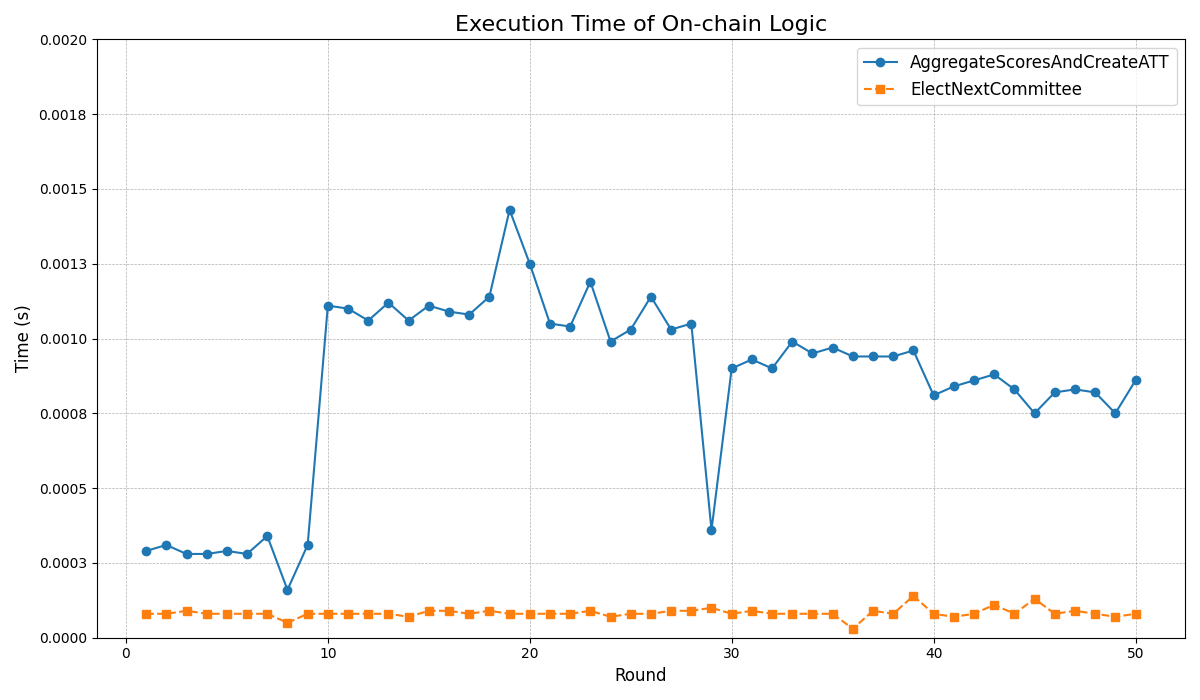
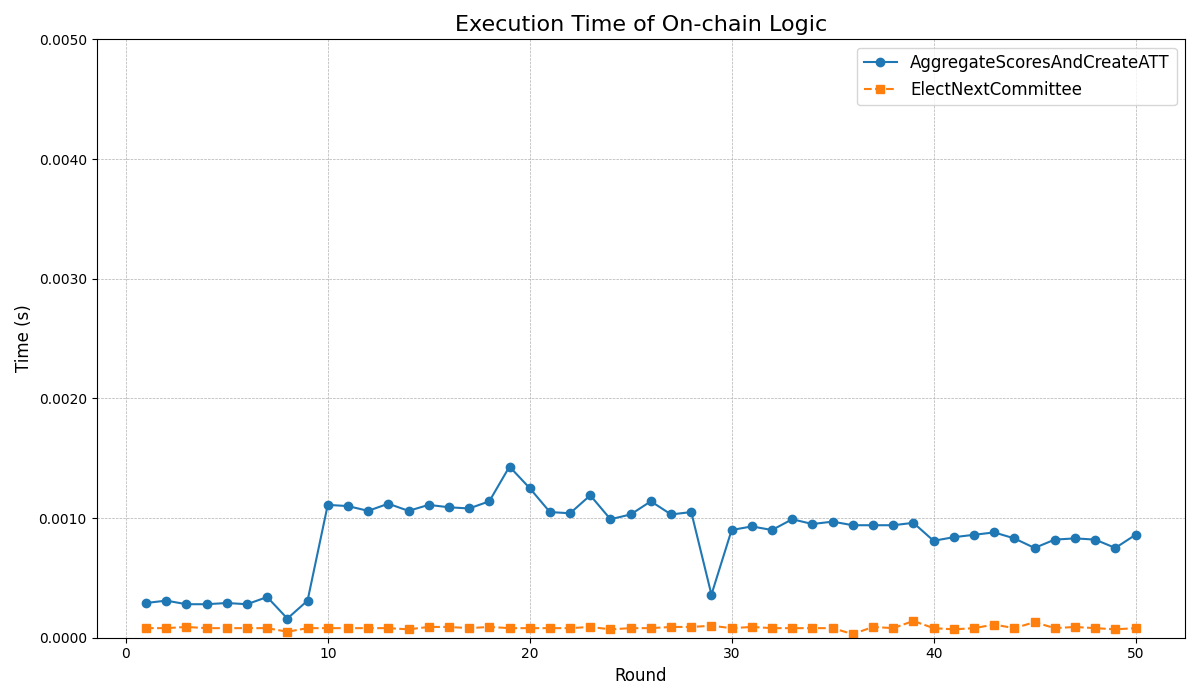
test

diff --git a/script/plot_cnode.py b/script/plot_cnode.py
@@ -1,0 +1,80 @@
+import pandas as pd
+import matplotlib.pyplot as plt
+
+### --- 그래프 설정 --- ###
+# 분석할 CSV 파일 이름
+CSV_FILE_PATH = "simulation_performance.csv"
+# 그래프로 그릴 데이터 컬럼 이름
+COLUMN_TO_PLOT = "avg_cnode_time"
+# Y축 최소값 설정
+Y_AXIS_MIN = 0.1
+# Y축 최대값 설정
+Y_AXIS_MAX = 3.0
+# 저장할 그래프 이미지 파일 이름
+OUTPUT_FILENAME = "avg_cnode_time_graph.png"
+### -------------------- ###
+
+
+def plot_custom_graph(csv_path, column, y_min, y_max, output_filename):
+    """
+    CSV 파일에서 지정된 컬럼 데이터를 읽어 Y축 범위를 설정하여 그래프를 생성합니다.
+    """
+    # 1. CSV 파일 읽기
+    try:
+        df = pd.read_csv(csv_path)
+    except FileNotFoundError:
+        print(f"오류: '{csv_path}' 파일을 찾을 수 없습니다. 스크립트와 같은 폴더에 파일이 있는지 확인하세요.")
+        return
+    except Exception as e:
+        print(f"파일을 읽는 중 오류가 발생했습니다: {e}")
+        return
+
+    # 2. 필요한 컬럼이 있는지 확인
+    if 'round_id' not in df.columns or column not in df.columns:
+        print(f"오류: CSV 파일에 'round_id' 또는 '{column}' 컬럼이 존재하지 않습니다.")
+        return
+
+    # 3. 그래프 생성
+    plt.figure(figsize=(12, 7))
+    
+    plt.plot(df['round_id'], df[column], 
+             marker='o', 
+             linestyle='-', 
+             color='teal', 
+             label=column)
+
+    # 4. 그래프 스타일 및 정보 설정
+    plt.title(f'Performance of C-node submit Score per Round', fontsize=16)
+    plt.xlabel('Round', fontsize=12)
+    plt.ylabel('Time (s)', fontsize=12)
+    plt.grid(True, which='both', linestyle='--', linewidth=0.5)
+    # 평균값 라인
+    plt.axhline(y=df[column].mean(), color='r', linestyle='--', label='Average')
+    # 평균값 표시
+    plt.text(1.8, df[column].mean() + 0.05, f'Avg: {df[column].mean():.2f}', color='r', fontsize=10)
+    
+    # 5. Y축 범위 설정 (사용자 지정)
+    plt.ylim(y_min, y_max)
+    
+    plt.legend()
+    plt.tight_layout()
+
+    # 6. 그래프 저장 및 출력
+    try:
+        plt.savefig(output_filename)
+        print(f"그래프 '{output_filename}'가 성공적으로 저장되었습니다.")
+        plt.show()
+    except Exception as e:
+        print(f"그래프를 저장하는 중 오류가 발생했습니다: {e}")
+
+
+# --- 메인 실행 블록 ---
+if __name__ == "__main__":
+    plot_custom_graph(
+        csv_path=CSV_FILE_PATH,
+        column=COLUMN_TO_PLOT,
+        y_min=Y_AXIS_MIN,
+        y_max=Y_AXIS_MAX,
+        output_filename=OUTPUT_FILENAME
+    )
+

diff --git a/script/plot_onchain.py b/script/plot_onchain.py
@@ -5,7 +5,7 @@ import matplotlib.ticker as mticker
 
 # 그래프 1 Y축 범위 설정 (초 단위)
 # 예: (0.0, 0.001) => 0 ~ 0.001초 범위, None이면 자동 범위
-GRAPH1_Y_RANGE = (0.0, 0.002)  # 0~0.01초로 변경
+GRAPH1_Y_RANGE = (0.0, 0.005)  # 0~0.01초로 변경
 
 def parse_log_file(log_path):
     import re
@@ -115,18 +115,25 @@ def plot_submission_time(df):
 
 def plot_total_process_time(df):
     """그래프 3: 학습 체인의 프로세스 총 소요 시간을 플롯합니다."""
-    df['total_time'] = df['avg_lnode_time'] + df['avg_cnode_time'] + df['att_aggregation_time'] + df['global_model_time'] - 2
+    df['total_time'] = df['avg_lnode_time'] + df['avg_cnode_time'] + (df['att_aggregation_time']-2) + df['global_model_time']
+    df['submit'] = df['avg_lnode_time'] + df['avg_cnode_time'] + (df['global_model_time'])
     
     plt.figure(figsize=(12, 7))
-    plt.plot(df['round_id'], df['total_time'], marker='o', linestyle='-', color='purple', label='Total Process Time')
+    plt.plot(df['round_id'], df['total_time'], marker='o', linestyle='-', color='purple', label='Round Time')
+    plt.axhline(y=df['total_time'].mean(), color='purple', linestyle='--', label='Average Round Time')
+
+    plt.plot(df['round_id'], df['submit'], marker='s', linestyle='-', color='red', label='L, C, CL Submission')
+
     # att_aggregation_time을 함께 플롯
-    plt.plot(df['round_id'], df['att_aggregation_time']-2, marker='s', linestyle='--', color='green', label='On-chain overhead')
+    # Each side-chain delay + Access control delay(IBC) + main-chain block delay 
+    plt.plot(df['round_id'], df['att_aggregation_time']-2, marker='s', linestyle='-', color='green', label='On-chain Overhead')
+
     # att_aggregation_time의 평균시간 선
-    plt.axhline(y=(df['att_aggregation_time']-2).mean(), color='green', linestyle=':', label='Avg On-chain overhead')
+    plt.axhline(y=(df['att_aggregation_time']-2).mean(), color='green', linestyle='--', label='Avg On-chain Overhead')
     plt.text(df['round_id'].min() - 7.2, (df['att_aggregation_time']-2).mean(), f'Avg: {(df["att_aggregation_time"]-2).mean():.4f}', color='green', fontsize=10)
 
     # 그래프에 전체 라운드의 평균 시간을 한쪽에 출력
-    plt.axhline(y=df['total_time'].mean(), color='purple', linestyle='--', label='Average Total Time')
+
     # axhline로 그려진 선의 값을 Y축 왼쪽에 텍스트로 표시 
     plt.text(df['round_id'].min() - 7.2, df['total_time'].mean(), f'Avg: {df["total_time"].mean():.4f}', color='purple', fontsize=10)
 
